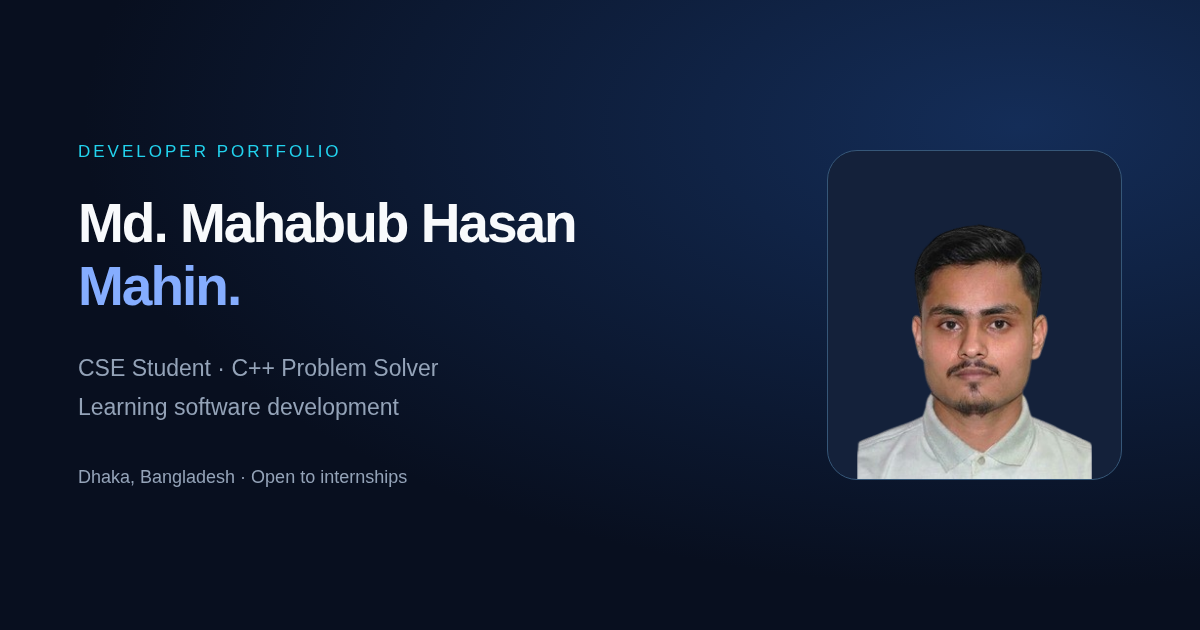
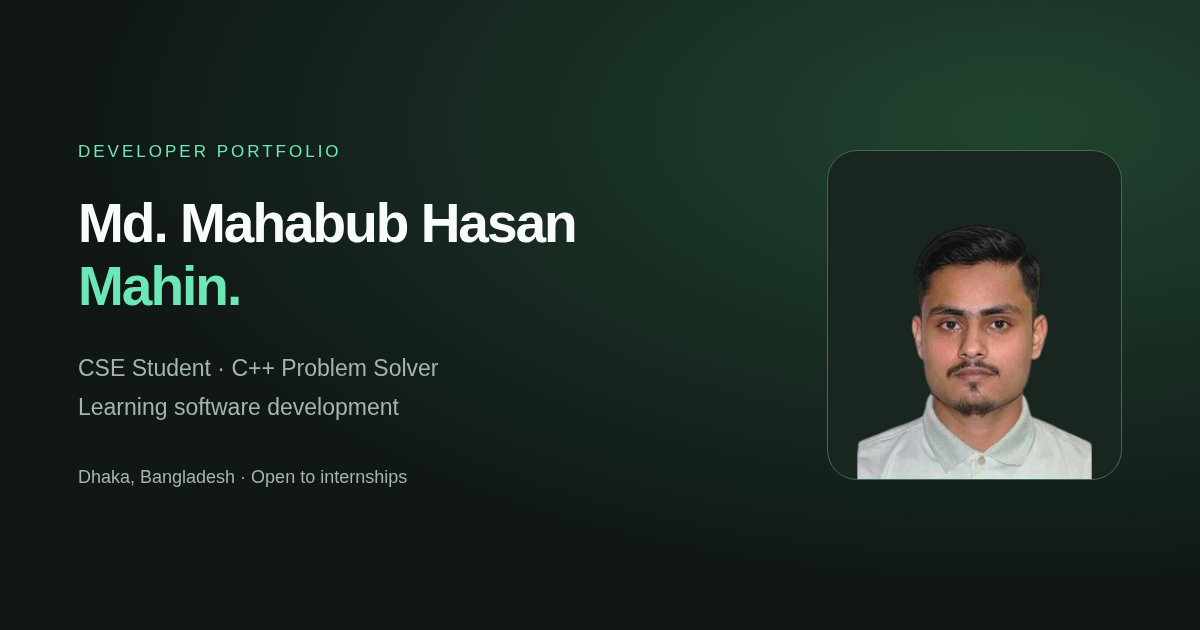
Show projects in one grid and switch to charcoal emerald palette

Changed region(s): [[0.4317, 0.0, 1.0, 0.7841], [0.0617, 0.4222, 0.2158, 0.4825], [0.0617, 0.2111, 0.2775, 0.2413]]

diff --git a/css/style.css b/css/style.css
@@ -1,16 +1,16 @@
-/* Mahin Portfolio — Midnight Glass. Edit these tokens to change the design. */
+/* Mahin Portfolio — Charcoal & Emerald Glass. Edit these tokens to change the design. */
 :root {
   color-scheme: dark;
-  --bg: #080f1f;
-  --panel: #14213a;
-  --surface: rgba(20,33,58,.82);
-  --surface-raised: #192b47;
-  --blue: #2563eb;
-  --cyan: #22d3ee;
+  --bg: #101715;
+  --panel: #19251f;
+  --surface: rgba(25,37,31,.82);
+  --surface-raised: #21332a;
+  --accent: #047857;
+  --cyan: #6ee7b7;
   --text: #f8fafc;
-  --muted: #94a3b8;
-  --line: #2d405b;
-  --hover-border: #5ba3ef;
+  --muted: #a3b5ac;
+  --line: #344b3e;
+  --hover-border: #5cbd91;
   --hover-shadow: rgba(0,0,0,.32);
   --shadow: 0 16px 45px rgba(0,0,0,.16);
   --radius: 18px;
@@ -19,18 +19,18 @@
 }
 html[data-theme=light] {
   color-scheme: light;
-  --bg: #edf3fa;
+  --bg: #f1f6f3;
   --panel: #fff;
   --surface: rgba(255,255,255,.9);
-  --surface-raised: #e5eef9;
-  --blue: #2459cd;
-  --cyan: #08748a;
-  --text: #10263f;
-  --muted: #49617a;
-  --line: #bacbe0;
-  --hover-border: #3279c5;
-  --hover-shadow: rgba(34,69,110,.15);
-  --shadow: 0 16px 45px rgba(34,69,110,.08);
+  --surface-raised: #e4eee7;
+  --accent: #047857;
+  --cyan: #096443;
+  --text: #193329;
+  --muted: #405c4b;
+  --line: #b5cebd;
+  --hover-border: #267b51;
+  --hover-shadow: rgba(39,85,57,.15);
+  --shadow: 0 16px 45px rgba(39,85,57,.08);
 }
 * { box-sizing: border-box; }
 html { scroll-behavior: smooth; scroll-padding-top: 30px; }
@@ -61,7 +61,7 @@ main:focus { outline: none; }
 .brand small { display: block; font-size: 8px; font-weight: 500; letter-spacing: 1.4px; color: var(--muted); white-space: nowrap; }
 .sidebar-avatar { display: grid; place-items: center; width: 43px; height: 46px; flex-shrink: 0; border: 0; border-radius: 0; overflow: hidden; background: transparent; }
 .sidebar-avatar img { width: 100%; height: 100%; object-fit: contain; object-position: center bottom; }
-.brand-mark { display: grid; place-items: center; width: 100%; height: 100%; background: var(--blue); color: white; font-size: 27px; }
+.brand-mark { display: grid; place-items: center; width: 100%; height: 100%; background: var(--accent); color: white; font-size: 27px; }
 .sidebar-controls { padding: 28px 8px 0; }
 .language-control { display: grid; gap: 8px; }
 .language-caption { color: var(--muted); font-size: 10px; letter-spacing: .6px; }
@@ -70,9 +70,9 @@ main:focus { outline: none; }
 .sidebar nav { position: relative; display: grid; gap: 4px; isolation: isolate; }
 .sidebar nav a { display: flex; align-items: center; gap: 12px; min-height: 43px; padding: 9px 13px; border-radius: 8px; color: var(--muted); font-size: 12px; line-height: 1.7; transition: color var(--motion),background var(--motion); }
 .sidebar nav a>span { display: inline-grid; place-items: center; width: 20px; font-size: 17px; flex-shrink: 0; }
-.sidebar nav a:hover { background: rgba(73,125,197,.12); color: var(--text); }
+.sidebar nav a:hover { background: rgba(69,141,96,.12); color: var(--text); }
 .sidebar nav a.active { color: var(--text); }
-.nav-indicator { position: absolute; z-index: -1; pointer-events: none; left: 0; top: 0; border-radius: 8px; border: 1px solid rgba(67,126,210,.24); border-left: 3px solid var(--cyan); background: linear-gradient(90deg,rgba(37,99,235,.2),rgba(37,99,235,.04)); transition: transform 280ms cubic-bezier(.2,.7,.2,1),width 280ms,height 280ms; }
+.nav-indicator { position: absolute; z-index: -1; pointer-events: none; left: 0; top: 0; border-radius: 8px; border: 1px solid rgba(73,143,101,.24); border-left: 3px solid var(--cyan); background: linear-gradient(90deg,rgba(16,185,129,.2),rgba(16,185,129,.04)); transition: transform 280ms cubic-bezier(.2,.7,.2,1),width 280ms,height 280ms; }
 .sidebar-bottom { margin-top: auto; padding: 30px 8px 0; font-size: 10px; line-height: 1.8; }
 .sidebar-bottom a { display: inline-block; color: var(--muted); margin: 10px 0; }
 .sidebar-bottom small { display: block; font-size: 9px; color: var(--muted); }
@@ -98,16 +98,16 @@ main { max-width: 1420px; margin-inline: auto; padding: 0 4.5%; min-width: 0; }
 .hero-copy { min-width: 0; }
 .hello { color: var(--muted); font-size: 18px; margin: 6px 0 12px; }
 h1 { margin: 0 0 20px; font-size: clamp(39px,4.2vw,65px); font-weight: 750; line-height: 1.1; letter-spacing: -2.2px; }
-h1>span { color: #8eb4ff; }
+h1>span { color: var(--cyan); }
 h1>span .cyan { color: var(--cyan); }
-.headline { font-size: 13px; line-height: 1.9; color: #c6d4e7; margin: 0 0 16px; }
-html[data-theme=light] .headline { color: #36516f; }
+.headline { font-size: 13px; line-height: 1.9; color: #ccddd3; margin: 0 0 16px; }
+html[data-theme=light] .headline { color: #365943; }
 .intro { max-width: 490px; font-size: 15px; line-height: 1.95; color: var(--muted); margin: 0 0 19px; }
 .current-focus { display: inline-flex; align-items: center; gap: 8px; max-width: 100%; margin: 0 0 25px; padding: 6px 11px; border: 1px solid var(--line); border-radius: 7px; background: var(--surface); color: var(--muted); font-size: 11px; }
 .current-focus:before { content: ''; width: 5px; height: 5px; background: var(--cyan); border-radius: 50%; flex-shrink: 0; }
 .hero-actions { display: flex; flex-wrap: wrap; gap: 11px; }
 .button { display: inline-flex; align-items: center; justify-content: center; gap: 18px; min-height: 46px; padding: 12px 18px; border: 1px solid var(--line); border-radius: 8px; font-size: 12px; font-weight: 600; }
-.primary { background: var(--blue); border-color: var(--blue); color: #fff; box-shadow: 0 5px 22px rgba(37,99,235,.2); }
+.primary { background: var(--accent); border-color: var(--accent); color: #fff; box-shadow: 0 5px 22px rgba(16,185,129,.2); }
 .secondary { background: var(--panel); color: var(--text); }
 .internship-link { display: inline-block; margin-top: 15px; font-size: 12px; color: var(--cyan); text-decoration: underline; text-underline-offset: 5px; }
 .hero-socials { display: flex; align-items: center; gap: 20px; margin-top: 22px; font-size: 11px; color: var(--muted); }
@@ -118,9 +118,9 @@ html[data-theme=light] .headline { color: #36516f; }
 .portrait-frame img { width: 100%; height: 100%; object-fit: contain; object-position: center bottom; padding: 0; mask-image: linear-gradient(to bottom,#000 88%,transparent 100%); }
 .portrait-frame img[data-image-shape=portrait] { object-fit: cover; object-position: 50% 25%; padding: 0; }
 #portrait-fallback { height: 100%; display: grid; align-content: center; justify-items: center; gap: 8px; }
-.monogram { font-size: 74px; font-weight: 750; line-height: 1.2; color: #bfd6ff; }
+.monogram { font-size: 74px; font-weight: 750; line-height: 1.2; color: #c0e9cf; }
 .portrait-note { color: var(--muted); font-size: 9px; letter-spacing: 1.5px; }
-.orbit { display: none; position: absolute; border: 1px solid rgba(77,138,204,.12); width: 338px; max-width: 96%; height: 338px; border-radius: 50%; pointer-events: none; }
+.orbit { display: none; position: absolute; border: 1px solid rgba(77,148,101,.12); width: 338px; max-width: 96%; height: 338px; border-radius: 50%; pointer-events: none; }
 .orbit-two { width: 370px; height: 290px; transform: rotate(-28deg); border-style: dashed; }
 .floating-label { position: absolute; z-index: 2; padding: 9px 12px; border: 1px solid var(--line); border-radius: 9px; background: var(--surface); color: var(--text); font-size: 10px; line-height: 1.7; box-shadow: 0 8px 24px rgba(0,0,0,.1); max-width: calc(100% - 24px); }
 .floating-label .cyan { margin-right: 6px; }
@@ -132,7 +132,7 @@ html[data-theme=light] .headline { color: #36516f; }
 .hero-footer a { font-size: 8px; letter-spacing: 1.4px; white-space: nowrap; }
 .quick-grid { display: grid; grid-template-columns: repeat(3,minmax(0,1fr)); gap: 15px; margin: 30px 0 48px; }
 .quick-card { display: flex; align-items: flex-start; gap: 12px; padding: 20px 16px; border: 1px solid var(--line); border-radius: 13px; background: var(--surface); min-width: 0; }
-.quick-icon { display: inline-grid; place-items: center; width: 35px; height: 38px; flex-shrink: 0; color: #9fbaff; background: rgba(37,99,235,.12); border-radius: 9px; font-size: 21px; }
+.quick-icon { display: inline-grid; place-items: center; width: 35px; height: 38px; flex-shrink: 0; color: #a5ddbc; background: rgba(16,185,129,.12); border-radius: 9px; font-size: 21px; }
 .quick-card small { display: block; color: var(--muted); font-size: 8px; letter-spacing: 1.2px; line-height: 1.6; }
 .quick-card strong { display: block; font-size: 12px; line-height: 1.6; margin: 6px 0; }
 .quick-card div>span { display: block; color: var(--muted); font-size: 10px; line-height: 1.7; }
@@ -147,25 +147,22 @@ html[data-theme=light] .headline { color: #36516f; }
 .interest-box { border-left: 1px solid var(--line); padding-left: 28px; }
 .interest-box small { color: var(--muted); font-size: 9px; letter-spacing: 1.3px; }
 .tags { display: flex; flex-wrap: wrap; gap: 7px; margin-top: 13px; }
-.tags span { padding: 4px 8px; border: 1px solid var(--line); border-radius: 5px; color: #bdcce1; background: rgba(37,99,235,.035); font-size: 11px; line-height: 1.7; overflow-wrap: anywhere; }
+.tags span { padding: 4px 8px; border: 1px solid var(--line); border-radius: 5px; color: #ccdfd1; background: rgba(16,185,129,.035); font-size: 11px; line-height: 1.7; overflow-wrap: anywhere; }
 html[data-theme=light] .tags span { color: var(--muted); }
 
 /* Projects, honest skill groups, and problem solving */
 #projects { padding-top: 20px; }
 .filter-row { display: flex; flex-wrap: wrap; gap: 8px; margin: 24px 0 17px; }
 .filter-row button { min-height: 42px; padding: 8px 15px; border-radius: 7px; color: var(--muted); font-size: 12px; }
-.filter-row button[aria-pressed=true] { background: var(--blue); border-color: var(--blue); color: #fff; }
+.filter-row button[aria-pressed=true] { background: var(--accent); border-color: var(--accent); color: #fff; }
 .project-grid { display: grid; grid-template-columns: repeat(3,minmax(0,1fr)); gap: 20px; min-width: 0; }
-.project-group-title { grid-column: 1/-1; padding: 12px 0; margin: 6px 0 0; border-bottom: 1px solid var(--line); font-size: 15px; font-weight: 600; }
 .project-card { display: flex; flex-direction: column; min-width: 0; border: 1px solid var(--line); border-radius: 15px; background: var(--surface); overflow: hidden; box-shadow: 0 8px 26px rgba(0,0,0,.08); }
-.project-art { position: relative; display: grid; place-items: center; height: 170px; background: radial-gradient(ellipse at bottom,rgba(37,99,235,.18),transparent 70%),var(--surface-raised); overflow: hidden; }
-.featured-card { border-color: #3a5c85; }
-.featured-card .project-art { height: 210px; }
+.project-art { position: relative; display: grid; place-items: center; height: 170px; background: radial-gradient(ellipse at bottom,rgba(16,185,129,.18),transparent 70%),var(--surface-raised); overflow: hidden; }
 .image-preview { display: block; width: 100%; height: 100%; padding: 0; border: 0; background: transparent; cursor: zoom-in; }
-.project-screenshot { width: 100%; height: 100%; object-fit: contain; object-position: center; background: #0d192d; transition: transform var(--motion); }
-.image-preview-hint { position: absolute; right: 10px; bottom: 10px; padding: 5px 9px; border: 1px solid #6494b8; border-radius: 5px; background: #10263fee; color: #fff; font-size: 10px; opacity: 0; transition: opacity var(--motion); }
+.project-screenshot { width: 100%; height: 100%; object-fit: contain; object-position: center; background: #111e17; transition: transform var(--motion); }
+.image-preview-hint { position: absolute; right: 10px; bottom: 10px; padding: 5px 9px; border: 1px solid #609276; border-radius: 5px; background: #193329ee; color: #fff; font-size: 10px; opacity: 0; transition: opacity var(--motion); }
 .image-preview:hover .image-preview-hint,.image-preview:focus-visible .image-preview-hint { opacity: 1; }
-.project-symbol { display: grid; place-items: center; width: 75px; height: 75px; border: 1px solid #476789; border-radius: 18px; color: #a9caff; background: rgba(66,115,181,.08); font-size: 42px; }
+.project-symbol { display: grid; place-items: center; width: 75px; height: 75px; border: 1px solid #426b51; border-radius: 18px; color: #b8e5c8; background: rgba(71,131,91,.08); font-size: 42px; }
 .art-caption { position: absolute; left: 12px; bottom: 10px; color: var(--muted); font-size: 8px; letter-spacing: 1.6px; }
 .project-body { display: flex; flex-direction: column; flex: 1; min-width: 0; padding: 21px; }
 .project-category { color: var(--cyan); font-size: 9px; text-transform: uppercase; letter-spacing: 1.3px; }
@@ -179,30 +176,30 @@ html[data-theme=light] .tags span { color: var(--muted); }
 .project-details dd { margin: 0; color: var(--muted); font-size: 12px; line-height: 1.85; }
 .project-actions { display: flex; flex-wrap: wrap; gap: 9px; margin-top: 18px; padding-top: 16px; border-top: 1px solid var(--line); }
 .project-link,.certificate-preview,.certificate-download,.preview-download,.cv-preview,.cv-open { position: relative; display: inline-flex; align-items: center; justify-content: center; min-height: 44px; padding: 8px 12px; border: 1px solid var(--line); border-radius: 7px; font-size: 11px; line-height: 1.7; font-weight: 550; background: var(--surface-raised); color: var(--text); }
-.demo-link,.certificate-preview,.cv-preview { color: #b9d7ff; background: rgba(37,99,235,.13); border-color: #3c5f8f; }
-html[data-theme=light] :is(.demo-link,.certificate-preview,.cv-preview) { color: #24529b; }
+.demo-link,.certificate-preview,.cv-preview { color: #c0e9cf; background: rgba(16,185,129,.13); border-color: #3c7353; }
+html[data-theme=light] :is(.demo-link,.certificate-preview,.cv-preview) { color: #276b47; }
 .source-note { margin: 17px 0 38px; font-size: 11px; color: var(--muted); }
 .skills-grid { display: grid; grid-template-columns: repeat(3,minmax(0,1fr)); gap: 16px; }
-.skill-card { min-width: 0; padding: 20px; border: 1px solid var(--line); border-radius: 12px; background: rgba(30,60,102,.035); }
+.skill-card { min-width: 0; padding: 20px; border: 1px solid var(--line); border-radius: 12px; background: rgba(30,75,49,.035); }
 .skill-card h3 { margin: 0 0 14px; font-size: 14px; }
 .skill-card .tags { margin-top: 0; }
 .practice-panel { display: grid; grid-template-columns: minmax(0,1fr) minmax(0,1fr); gap: 50px; align-items: center; padding: 35px 12px; }
 .practice-panel p:not(.eyebrow) { color: var(--muted); font-size: 14px; line-height: 1.9; max-width: 400px; }
 .practice-panel .button { margin-top: 12px; }
-.code-window { border: 1px solid var(--line); background: #0b1425; color: #e2edfc; border-radius: 12px; overflow: hidden; box-shadow: var(--shadow); min-width: 0; }
-.code-top { display: flex; align-items: center; gap: 5px; padding: 13px; border-bottom: 1px solid #2b3e59; }
+.code-window { border: 1px solid var(--line); background: #0e1913; color: #e6f2e9; border-radius: 12px; overflow: hidden; box-shadow: var(--shadow); min-width: 0; }
+.code-top { display: flex; align-items: center; gap: 5px; padding: 13px; border-bottom: 1px solid #2a4233; }
 .code-top i { width: 6px; height: 6px; border-radius: 50%; background: #ee9091; }
 .code-top i:nth-child(2) { background: #dac078; }.code-top i:nth-child(3) { background: #70c7a3; }
-.code-top span { margin: auto; font-size: 10px; color: #a6b7cd; }
+.code-top span { margin: auto; font-size: 10px; color: #afc5b7; }
 .code-window pre { margin: 0; padding: 22px; font: 13px/2 ui-monospace,SFMono-Regular,Consolas,monospace; overflow-x: auto; }
-.code-window .cyan { color: #45d9f1; }.code-window .muted { color: #a6b7cd; }
-.code-bottom { display: flex; justify-content: space-between; gap: 12px; padding: 10px 15px; border-top: 1px solid #2b3e59; color: #a6b7cd; font-size: 10px; }
+.code-window .cyan { color: #6ee7b7; }.code-window .muted { color: #afc5b7; }
+.code-bottom { display: flex; justify-content: space-between; gap: 12px; padding: 10px 15px; border-top: 1px solid #2a4233; color: #afc5b7; font-size: 10px; }
 .code-bottom span { color: #77d4b2; }
 
 /* Education, certificates, CV, contact */
 .timeline { display: grid; grid-template-columns: repeat(2,minmax(0,1fr)); gap: 30px; margin-top: 28px; }
 .timeline article { position: relative; border-left: 1px solid var(--line); padding-left: 20px; min-width: 0; }
-.timeline article:before { content: ''; position: absolute; top: 8px; left: -4px; width: 7px; height: 7px; border-radius: 50%; background: var(--cyan); box-shadow: 0 0 0 4px rgba(34,211,238,.06); }
+.timeline article:before { content: ''; position: absolute; top: 8px; left: -4px; width: 7px; height: 7px; border-radius: 50%; background: var(--cyan); box-shadow: 0 0 0 4px rgba(110,231,183,.06); }
 .timeline small { color: var(--cyan); font-size: 11px; }
 .timeline h3 { font-size: 16px; margin: 7px 0; }.timeline p { margin: 0; color: var(--muted); font-size: 13px; }
 .certificate-list { display: grid; grid-template-columns: repeat(3,minmax(0,1fr)); grid-auto-rows: 1fr; gap: 20px; margin-top: 25px; }
@@ -218,16 +215,16 @@ html[data-theme=light] :is(.demo-link,.certificate-preview,.cv-preview) { color:
 .certificate-actions>* { flex: 1 1 105px; }
 .certificate-status { padding-top: 12px; }
 .resume-grid { display: grid; gap: 14px; }
-.resume-card { display: flex; align-items: center; justify-content: space-between; gap: 20px; padding: 23px; border: 1px solid var(--line); border-radius: 12px; background: rgba(30,60,102,.035); }
+.resume-card { display: flex; align-items: center; justify-content: space-between; gap: 20px; padding: 23px; border: 1px solid var(--line); border-radius: 12px; background: rgba(30,75,49,.035); }
 .resume-card h3 { font-size: 17px; margin: 0 0 5px; }.resume-card p { margin: 0; color: var(--muted); font-size: 12px; }
 .resume-actions { display: flex; flex-wrap: wrap; gap: 9px; }
 .resume-card a[download] { display: inline-flex; align-items: center; justify-content: center; padding: 9px 13px; min-height: 44px; border: 1px solid var(--line); border-radius: 7px; color: var(--text); font-size: 12px; }
 .asset-status { font-size: 11px; color: var(--muted); }
-.contact-panel { padding: 48px 24px 40px; text-align: center; border: 1px solid var(--line); border-radius: var(--radius); background: radial-gradient(ellipse at bottom,rgba(37,99,235,.12),transparent 70%),var(--surface); }
+.contact-panel { padding: 48px 24px 40px; text-align: center; border: 1px solid var(--line); border-radius: var(--radius); background: radial-gradient(ellipse at bottom,rgba(16,185,129,.12),transparent 70%),var(--surface); }
 .contact-panel h2 { font-size: clamp(29px,3.2vw,43px); }
 .contact-panel>p:not(.eyebrow) { max-width: 500px; margin: 18px auto; font-size: 14px; line-height: 1.9; color: var(--muted); }
-.email-link { display: inline-block; color: #a7ccff; font-size: clamp(13px,1.7vw,22px); margin: 9px 0 24px; overflow-wrap: anywhere; }
-html[data-theme=light] .email-link { color: #24529b; }
+.email-link { display: inline-block; color: #b7e5c9; font-size: clamp(13px,1.7vw,22px); margin: 9px 0 24px; overflow-wrap: anywhere; }
+html[data-theme=light] .email-link { color: #276b47; }
 .contact-socials { display: flex; justify-content: center; flex-wrap: wrap; gap: 10px; }
 .contact-socials a { min-height: 42px; padding: 8px 12px; border: 1px solid var(--line); border-radius: 7px; color: var(--muted); font-size: 11px; }
 .contact-location,.contact-hometown { font-size: 11px; color: var(--muted); margin-top: 20px; }.contact-hometown { margin-top: 5px; }
@@ -235,8 +232,8 @@ footer { display: flex; justify-content: space-between; align-items: center; gap
 footer a { display: inline-grid; place-items: center; width: 34px; height: 34px; border: 1px solid var(--line); border-radius: 7px; margin-left: 9px; }
 
 /* Native accessible previews */
-.image-dialog,.cv-dialog { padding: 20px; border: 1px solid #547496; border-radius: 16px; background: var(--panel); color: var(--text); max-width: min(1100px,94vw); width: max-content; max-height: 92dvh; overflow: auto; box-shadow: 0 25px 80px rgba(0,0,0,.4); }
-.image-dialog::backdrop,.cv-dialog::backdrop { background: rgba(3,8,17,.86); }
+.image-dialog,.cv-dialog { padding: 20px; border: 1px solid #527c61; border-radius: 16px; background: var(--panel); color: var(--text); max-width: min(1100px,94vw); width: max-content; max-height: 92dvh; overflow: auto; box-shadow: 0 25px 80px rgba(0,0,0,.4); }
+.image-dialog::backdrop,.cv-dialog::backdrop { background: rgba(3,12,7,.86); }
 .preview-header { display: flex; align-items: center; justify-content: space-between; gap: 20px; margin-bottom: 14px; }
 .preview-header h2 { margin: 0; font-size: 17px; letter-spacing: 0; line-height: 1.6; }
 .preview-close,.cv-close { width: 44px; height: 44px; flex-shrink: 0; border-radius: 8px; font-size: 25px; }
@@ -288,7 +285,7 @@ body.preview-open { overflow: hidden; }
   .quick-card strong { font-size: 13px; }.quick-card div>span { font-size: 11px; }
   .about-grid { grid-template-columns: 1fr; gap: 22px; }.interest-box { border: 0; padding: 0; }
   .project-grid,.skills-grid,.certificate-list { grid-template-columns: minmax(0,1fr); }.certificate-list { grid-auto-rows: auto; }
-  .project-art { height: 190px; }.featured-card .project-art { height: 215px; }
+  .project-art { height: 190px; }
   .skills-grid { gap: 12px; }.skill-card h3 { font-size: 15px; }
   .practice-panel { grid-template-columns: 1fr; gap: 25px; padding: 20px 0; }
   .timeline { grid-template-columns: 1fr; gap: 27px; }

diff --git a/index.html b/index.html
@@ -5,7 +5,7 @@
 <meta name="description" content="Md. Mahabub Hasan Mahin is a CSE student at Green University of Bangladesh. Based in Dhaka, from Rangpur. View C++, web and backend projects, skills, and CV.">
 <link rel="canonical" href="https://mahabubhasanmahin.github.io/portfolio/">
 <meta name="robots" content="index, follow">
-<meta name="theme-color" content="#080f1f">
+<meta name="theme-color" content="#101715">
 <meta property="og:title" content="Md. Mahabub Hasan Mahin | Developer Portfolio">
 <meta property="og:description" content="CSE student, C++ problem solver, and software development learner. Based in Dhaka, from Rangpur, Bangladesh.">
 <meta property="og:type" content="profile">
@@ -52,16 +52,16 @@
   }
 }</script>
 <link rel="icon" href="assets/favicon.svg" type="image/svg+xml">
-<link rel="stylesheet" href="css/style.css?v=20261109-portrait-blend"><link rel="stylesheet" href="css/effects.css?v=20261109-portrait-blend">
-<script type="module" src="js/main.js?v=20261109-portrait-blend"></script>
+<link rel="stylesheet" href="css/style.css?v=20261109-emerald-grid"><link rel="stylesheet" href="css/effects.css?v=20261109-emerald-grid">
+<script type="module" src="js/main.js?v=20261109-emerald-grid"></script>
 </head>
 <body>
 <a class="skip" href="#main">Skip to content</a>
-<aside class="sidebar"><a class="brand" href="#home"><span class="sidebar-avatar"><img id="sidebar-profile" src="assets/images/profile.png?v=20261109-portrait-blend" alt="" width="96" height="96"><span id="sidebar-profile-fallback" class="brand-mark" hidden>m<span>.</span></span></span><span>mahin<span class="cyan">.</span><small>DEVELOPER PORTFOLIO</small></span></a>
+<aside class="sidebar"><a class="brand" href="#home"><span class="sidebar-avatar"><img id="sidebar-profile" src="assets/images/profile.png?v=20261109-emerald-grid" alt="" width="96" height="96"><span id="sidebar-profile-fallback" class="brand-mark" hidden>m<span>.</span></span></span><span>mahin<span class="cyan">.</span><small>DEVELOPER PORTFOLIO</small></span></a>
 <button id="menu-toggle" class="menu-toggle" type="button" aria-label="Open menu" aria-expanded="false" aria-controls="site-nav"><span aria-hidden="true">☰</span></button><div class="sidebar-controls"><label class="language-control"><span class="language-caption">Language / ভাষা / 言語</span><select id="language-select" aria-label="Language / ভাষা / 言語"><option value="en">English</option><option value="bn">বাংলা</option><option value="ja">日本語</option></select></label></div><div class="nav-caption">MENU</div><nav id="site-nav" aria-label="Main navigation"><a href="#home" class="active"><span>⌂</span> Home</a><a href="#about"><span>◉</span> About me</a><a href="#skills"><span>⌘</span> Skills</a><a href="#projects"><span>▦</span> Projects</a><a href="#practice"><span>⌨</span> Problem solving</a><a href="#education"><span>▤</span> Education</a><a href="#certifications"><span>◇</span> Certificates</a><a href="#resume"><span>↓</span> CV</a><a href="#contact"><span>✉</span> Contact</a></nav>
 <div class="sidebar-bottom"><div class="learning-dot">Always learning. Always building.</div><a id="sidebar-github" target="_blank" rel="noopener noreferrer">Explore my GitHub ↗</a><small>Made with HTML, CSS, and JavaScript.</small></div></aside>
 <div class="workspace"><header class="topbar"><span class="breadcrumb">Portfolio <span>/</span> <strong>Home</strong></span><div class="top-actions"><span class="local-time">Dhaka, BD <span> · UTC+6</span></span><button id="theme-toggle" aria-label="Switch to light theme" title="Switch theme">☼</button><a href="#contact" class="top-contact">Contact me ↗</a></div></header>
-<main id="main" tabindex="-1"><section id="home" class="hero section"><div class="eyebrow"><span></span> LEARNING AND BUILDING</div><div class="hero-grid"><div class="hero-copy"><p class="hello">Hi, I’m</p><h1 id="hero-name">Md. Mahabub Hasan<br><span>Mahin<span class="cyan">.</span></span></h1><p class="headline" id="headline">CSE Student | C++ Problem Solver | Learning Software Development</p><p class="intro" id="intro">I study computer science, practice problem solving with C++, and learn backend development through projects. I am looking for a software development internship where I can learn and help a team.</p><p id="current-focus" class="current-focus">Currently working on a research paper.</p><div class="hero-actions"><a class="button primary" href="#projects">View projects <span>↗</span></a><a class="button secondary" href="#resume">↓ Download CV</a></div><a class="internship-link" href="#contact">Looking for an intern? Let’s talk ↗</a><div class="hero-socials" id="hero-socials"></div></div><div class="portrait-scene"><div class="orbit orbit-one"></div><div class="orbit orbit-two"></div><div class="portrait-frame"><img id="profile" src="assets/images/profile.png?v=20261109-portrait-blend" alt="Portrait of Md. Mahabub Hasan Mahin" width="300" height="300" fetchpriority="high" decoding="async"><div id="portrait-fallback" hidden><span class="monogram">MH<span>.</span></span><span class="portrait-note">DEVELOPER IN PROGRESS</span></div></div><div class="floating-label code-label"><span class="cyan" aria-hidden="true">&lt;/&gt;</span> Learning by building</div><div class="floating-label location-label"><span class="cyan" aria-hidden="true">⌖</span> Bangladesh</div><div class="scene-caption"><span class="status-dot"></span> Open to internships and junior roles</div></div></div><div class="hero-footer"><span><span class="cyan">01 /</span> Learning something new every day.</span><a href="#about">SEE MORE ↓</a></div></section>
+<main id="main" tabindex="-1"><section id="home" class="hero section"><div class="eyebrow"><span></span> LEARNING AND BUILDING</div><div class="hero-grid"><div class="hero-copy"><p class="hello">Hi, I’m</p><h1 id="hero-name">Md. Mahabub Hasan<br><span>Mahin<span class="cyan">.</span></span></h1><p class="headline" id="headline">CSE Student | C++ Problem Solver | Learning Software Development</p><p class="intro" id="intro">I study computer science, practice problem solving with C++, and learn backend development through projects. I am looking for a software development internship where I can learn and help a team.</p><p id="current-focus" class="current-focus">Currently working on a research paper.</p><div class="hero-actions"><a class="button primary" href="#projects">View projects <span>↗</span></a><a class="button secondary" href="#resume">↓ Download CV</a></div><a class="internship-link" href="#contact">Looking for an intern? Let’s talk ↗</a><div class="hero-socials" id="hero-socials"></div></div><div class="portrait-scene"><div class="orbit orbit-one"></div><div class="orbit orbit-two"></div><div class="portrait-frame"><img id="profile" src="assets/images/profile.png?v=20261109-emerald-grid" alt="Portrait of Md. Mahabub Hasan Mahin" width="300" height="300" fetchpriority="high" decoding="async"><div id="portrait-fallback" hidden><span class="monogram">MH<span>.</span></span><span class="portrait-note">DEVELOPER IN PROGRESS</span></div></div><div class="floating-label code-label"><span class="cyan" aria-hidden="true">&lt;/&gt;</span> Learning by building</div><div class="floating-label location-label"><span class="cyan" aria-hidden="true">⌖</span> Bangladesh</div><div class="scene-caption"><span class="status-dot"></span> Open to internships and junior roles</div></div></div><div class="hero-footer"><span><span class="cyan">01 /</span> Learning something new every day.</span><a href="#about">SEE MORE ↓</a></div></section>
 <div class="quick-grid"><a href="#education" class="quick-card"><span class="quick-icon" aria-hidden="true">▤</span><div><small>CURRENTLY STUDYING</small><strong>Computer Science & Engineering</strong><span>Green University of Bangladesh</span></div><span class="arrow" aria-hidden="true">↗</span></a><a href="#practice" class="quick-card"><span class="quick-icon" aria-hidden="true">⌘</span><div><small>MAIN FOCUS</small><strong>C++ & Problem Solving</strong><span>Practice, learn, and try again.</span></div><span class="arrow" aria-hidden="true">↗</span></a><a href="#projects" class="quick-card"><span class="quick-icon" aria-hidden="true">▦</span><div><small>HOW I LEARN</small><strong>Building projects</strong><span>Turn ideas into simple apps.</span></div><span class="arrow" aria-hidden="true">↗</span></a></div>
 <section id="about" class="section panel"><div class="section-heading"><div><p class="eyebrow">01 — ABOUT ME</p><h2>About me. <span>What I am learning.</span></h2></div><span class="section-label">ABOUT ME</span></div><div class="about-grid"><p id="about-copy"></p><div class="interest-box"><small>MY INTERESTS</small><div class="tags"><span>Backend development</span><span>Software development</span><span>C++ problem solving</span><span>IT & networking</span></div></div></div></section>
 <section id="projects" class="section"><div class="section-heading"><div><p class="eyebrow">02 — MY PROJECTS</p><h2>My projects. <span>Built while learning.</span></h2><p class="section-description">Class and personal projects that help me learn.</p></div></div><div class="filter-row" role="group" aria-label="Filter projects" id="filters"></div><p class="sr-only" id="project-status" aria-live="polite"></p><div id="project-grid" class="project-grid"></div><p class="source-note">See the code on GitHub. Some projects also have a live demo.</p></section>

diff --git a/css/effects.css b/css/effects.css
@@ -1,12 +1,12 @@
 /* Lightweight enhancement layer. Content is readable without these effects. */
 .ambient-scene { position: fixed; inset: 0; z-index: -1; pointer-events: none; overflow: hidden; contain: strict; --scene-x: 0px; --scene-y: 0px; }
-.ambient-grid { position: absolute; inset: 0; opacity: .22; background-image: linear-gradient(#5d85ad14 1px,transparent 1px),linear-gradient(90deg,#5d85ad14 1px,transparent 1px); background-size: 65px 65px; mask-image: radial-gradient(ellipse at 70% 35%,#000,transparent 75%); }
+.ambient-grid { position: absolute; inset: 0; opacity: .22; background-image: linear-gradient(#6a9a7e14 1px,transparent 1px),linear-gradient(90deg,#6a9a7e14 1px,transparent 1px); background-size: 65px 65px; mask-image: radial-gradient(ellipse at 70% 35%,#000,transparent 75%); }
 .ambient-orb { position: absolute; border-radius: 50%; width: 650px; height: 650px; transform: translate3d(var(--scene-x),calc(var(--scene-y) + var(--scroll-offset,0px)),0); }
-.orb-blue { top: -270px; right: -150px; background: radial-gradient(circle,#2563eb19,transparent 67%); }.orb-cyan { bottom: -420px; left: 5%; background: radial-gradient(circle,#22d3ee0a,transparent 65%); }
-.geometry { position: absolute; border: 1px solid #6aa3dc14; transform: translate3d(var(--scene-x),var(--scene-y),0) rotate(25deg); }
+.orb-blue { top: -270px; right: -150px; background: radial-gradient(circle,#10b98119,transparent 67%); }.orb-cyan { bottom: -420px; left: 5%; background: radial-gradient(circle,#6ee7b70a,transparent 65%); }
+.geometry { position: absolute; border: 1px solid #75b38d14; transform: translate3d(var(--scene-x),var(--scene-y),0) rotate(25deg); }
 .geometry-cube { top: 21%; right: 4%; width: 125px; height: 125px; border-radius: 16px; }.geometry-ring { right: 17%; bottom: 13%; width: 175px; height: 175px; border-radius: 50%; }.geometry-diamond { display: none; }
 :is(.project-card,.skill-card,.quick-card,.resume-card,.certificate-card) { position: relative; isolation: isolate; transition: transform var(--motion),border-color var(--motion),box-shadow var(--motion),background var(--motion); }
-:is(.project-card,.skill-card,.quick-card,.resume-card,.certificate-card):after { content: ''; position: absolute; z-index: -1; inset: 0; border-radius: inherit; opacity: 0; pointer-events: none; background: radial-gradient(300px circle at var(--pointer-x,50%) var(--pointer-y,50%),#3f9eff14,transparent 70%); transition: opacity var(--motion); }
+:is(.project-card,.skill-card,.quick-card,.resume-card,.certificate-card):after { content: ''; position: absolute; z-index: -1; inset: 0; border-radius: inherit; opacity: 0; pointer-events: none; background: radial-gradient(300px circle at var(--pointer-x,50%) var(--pointer-y,50%),#38d99714,transparent 70%); transition: opacity var(--motion); }
 html[data-pointer-effects=true] .pointer-lit:after { opacity: 1; }
 :is(.button,.project-link,.certificate-preview,.certificate-download,.preview-download,.cv-preview,.cv-open,.top-contact,.filter-row button,#theme-toggle,.menu-toggle) { position: relative; isolation: isolate; overflow: hidden; transition: transform var(--motion),border-color var(--motion),box-shadow var(--motion),background var(--motion); }
 .button:before { content: ''; position: absolute; top: -50%; left: -80%; width: 40%; height: 200%; pointer-events: none; transform: skewX(-20deg); background: linear-gradient(90deg,transparent,#ffffff24,transparent); }
@@ -14,13 +14,13 @@ html[data-pointer-effects=true] .pointer-lit:after { opacity: 1; }
  :is(.project-card,.skill-card,.quick-card,.resume-card,.certificate-card):hover { border-color: var(--hover-border); box-shadow: 0 15px 32px var(--hover-shadow); transform: translateY(-5px); }
  html[data-pointer-effects=true] .project-card.pointer-lit { border-color: var(--hover-border); box-shadow: 0 15px 32px var(--hover-shadow); transform: perspective(1000px) translateY(-5px) rotateX(var(--tilt-x,0deg)) rotateY(var(--tilt-y,0deg)); }
  :is(.button,.project-link,.certificate-preview,.certificate-download,.top-contact,.filter-row button,#theme-toggle,.menu-toggle,.cv-preview,.cv-open):hover { border-color: var(--hover-border); box-shadow: 0 6px 20px var(--hover-shadow); transform: translateY(-2px); }
- .primary:hover { background: #3472f3; color: #fff; }.secondary:hover { background: var(--surface-raised); }
+ .primary:hover { background: #065f46; color: #fff; }.secondary:hover { background: var(--surface-raised); }
  html[data-button-effects=true] .button:hover:before { animation: sheen .6s ease both; }
  .project-card:hover .project-screenshot { transform: scale(1.035); }
 }
-:is(.project-card,.certificate-card,.resume-card):focus-within { border-color: var(--cyan); box-shadow: 0 0 0 2px rgba(34,211,238,.12); }
+:is(.project-card,.certificate-card,.resume-card):focus-within { border-color: var(--cyan); box-shadow: 0 0 0 2px rgba(110,231,183,.12); }
 :is(.button,.project-link,.certificate-preview,.certificate-download):active { transform: translateY(1px); }
-.button-ripple { position: absolute; width: 12px; height: 12px; border-radius: 50%; pointer-events: none; background: #a9e6ff70; transform: translate(-50%,-50%) scale(0); animation: ripple .5s ease-out forwards; z-index: -1; }
+.button-ripple { position: absolute; width: 12px; height: 12px; border-radius: 50%; pointer-events: none; background: #b8f3d470; transform: translate(-50%,-50%) scale(0); animation: ripple .5s ease-out forwards; z-index: -1; }
 @keyframes sheen { to { left: 150%; } }@keyframes ripple { to { transform: translate(-50%,-50%) scale(35); opacity: 0; } }
 .section-arrived { animation: section-reveal .65s ease both; }.section-arrived .project-card { animation: card-reveal .5s ease both; animation-delay: var(--stagger,0ms); }
 @keyframes section-reveal { from { opacity: .75; } to { opacity: 1; } }@keyframes card-reveal { from { opacity: .72; } to { opacity: 1; } }

diff --git a/js/main.js b/js/main.js
@@ -1,11 +1,11 @@
-import {initCVPreview} from './cv.js?v=20261109-portrait-blend';
-import {initProfile} from './profile.js?v=20261109-portrait-blend';
-import {initNavigation} from './navigation.js?v=20261109-portrait-blend';
-import {renderCertificates} from './certificates.js?v=20261109-portrait-blend';
-import {initImagePreview} from './preview.js?v=20261109-portrait-blend';
-import {initEffects} from './effects.js?v=20261109-portrait-blend';
-import {initLanguage,translate,translatePage} from './i18n.js?v=20261109-portrait-blend';
-import {portfolio as data} from './portfolio-data.js?v=20261109-portrait-blend';
+import {initCVPreview} from './cv.js?v=20261109-emerald-grid';
+import {initProfile} from './profile.js?v=20261109-emerald-grid';
+import {initNavigation} from './navigation.js?v=20261109-emerald-grid';
+import {renderCertificates} from './certificates.js?v=20261109-emerald-grid';
+import {initImagePreview} from './preview.js?v=20261109-emerald-grid';
+import {initEffects} from './effects.js?v=20261109-emerald-grid';
+import {initLanguage,translate,translatePage} from './i18n.js?v=20261109-emerald-grid';
+import {portfolio as data} from './portfolio-data.js?v=20261109-emerald-grid';
 initProfile(data.photo);
 const $ = selector => document.querySelector(selector);
 const element = (tag, className, text) => {const node=document.createElement(tag);if(className)node.className=className;if(text!==undefined)node.textContent=text;return node;};
@@ -19,12 +19,10 @@ for(const [title,...skills] of data.skills){const card=element('article','skill-
 for(const [date,title,org] of data.education){const article=element('article');article.append(element('small','',date),element('h3','',title),element('p','',org));$('#education-list').append(article);}
 renderCertificates(data.certifications,$('#certification-list'));
 function renderProjects(category='All projects') {
- const projects=data.projects.filter(project=>category==='All projects'||project.category===category).sort((a,b)=>Number(Boolean(b.featured))-Number(Boolean(a.featured)));
- let normalHeading=false;
+ const projects=data.projects.filter(project=>category==='All projects'||project.category===category);
  $('#project-grid').replaceChildren();
  for(const project of projects){
-  if(category==='All projects'){if(project===projects[0])$('#project-grid').append(element('p','project-group-title','Featured projects'));if(!project.featured&&!normalHeading){$('#project-grid').append(element('p','project-group-title','More projects'));normalHeading=true;}}
-  const card=element('article','project-card'+(project.featured?' featured-card':''));card.style.setProperty('--stagger',Math.min(projects.indexOf(project),5)*35+'ms');
+  const card=element('article','project-card');card.style.setProperty('--stagger',Math.min(projects.indexOf(project),5)*35+'ms');
   const art=element('div','project-art');
   if(project.image){
    const image=element('img','project-screenshot');image.src=project.image;image.alt=project.name+' — Project screenshot';image.loading='lazy';image.width=900;image.height=440;
@@ -49,7 +47,7 @@ for(const cv of data.resumes){
  if(cv.path){const actions=element('div','resume-actions');const download=card.querySelector('a[download]');const preview=element('button','cv-preview','View CV');preview.type='button';preview.dataset.cvSrc=cv.path;preview.setAttribute('aria-haspopup','dialog');actions.append(preview,download);card.append(actions);}
  $('#resume-list').append(card);
 }
-const themeButton=$('#theme-toggle');function setTheme(theme){document.documentElement.dataset.theme=theme;document.querySelector('meta[name="theme-color"]').content=theme==='dark'?'#080f1f':'#edf3fa';themeButton.textContent=theme==='dark'?'☼':'☾';themeButton.setAttribute('aria-label',translate('Switch to '+(theme==='dark'?'light':'dark')+' theme'));}try{setTheme(localStorage.getItem('mahin-theme-midnight')==='light'?'light':'dark');}catch{setTheme('dark');}themeButton.addEventListener('click',()=>{const theme=document.documentElement.dataset.theme==='dark'?'light':'dark';setTheme(theme);try{localStorage.setItem('mahin-theme-midnight',theme);}catch{}});
+const themeButton=$('#theme-toggle');function setTheme(theme){document.documentElement.dataset.theme=theme;document.querySelector('meta[name="theme-color"]').content=theme==='dark'?'#101715':'#f1f6f3';themeButton.textContent=theme==='dark'?'☼':'☾';themeButton.setAttribute('aria-label',translate('Switch to '+(theme==='dark'?'light':'dark')+' theme'));}try{setTheme(localStorage.getItem('mahin-theme-midnight')==='light'?'light':'dark');}catch{setTheme('dark');}themeButton.addEventListener('click',()=>{const theme=document.documentElement.dataset.theme==='dark'?'light':'dark';setTheme(theme);try{localStorage.setItem('mahin-theme-midnight',theme);}catch{}});
 const reduced=matchMedia('(prefers-reduced-motion: reduce)');
 if(!['reveal','tilt','spotlight','buttons','background'].some(key=>data.effects[key]))document.documentElement.dataset.effects='off';
 const observer=new IntersectionObserver(entries=>{for(const entry of entries)if(entry.isIntersecting){if(data.effects.reveal&&!reduced.matches)entry.target.classList.add('section-arrived');observer.unobserve(entry.target);}},{threshold:.08});document.querySelectorAll('main>.section,.journey-grid .section').forEach(x=>observer.observe(x));

diff --git a/js/preview.js b/js/preview.js
@@ -1,4 +1,4 @@
-import {translate} from './i18n.js?v=20261109-portrait-blend';
+import {translate} from './i18n.js?v=20261109-emerald-grid';
 /** Native dialog supplies focus containment, Escape, and focus restoration. */
 export function initImagePreview(){
  const dialog=document.createElement('dialog');dialog.className='image-dialog';dialog.setAttribute('aria-labelledby','preview-title');

diff --git a/js/cv.js b/js/cv.js
@@ -1,4 +1,4 @@
-import {translate} from './i18n.js?v=20261109-portrait-blend';
+import {translate} from './i18n.js?v=20261109-emerald-grid';
 
 /** A real PDF preview with a normal open/download fallback for mobile browsers. */
 export function initCVPreview(){

diff --git a/js/navigation.js b/js/navigation.js
@@ -1,4 +1,4 @@
-import {translate} from './i18n.js?v=20261109-portrait-blend';
+import {translate} from './i18n.js?v=20261109-emerald-grid';
 
 /** One active-section controller for pointer, keyboard, scroll, and history. */
 export function initNavigation(){

diff --git a/README.md b/README.md
@@ -8,10 +8,10 @@ Built with HTML, CSS, and JavaScript. No build step, framework, or backend is ne
 
 ## Included
 
-- Eleven class and personal projects, with three featured projects.
+- Eleven class and personal projects, shown together in one grid.
 - Project screenshots, source links, four supplied demo links, and editable project notes.
 - Skills, education, three certificates, CV preview and download, and contact links.
-- Midnight Glass design, light theme, and English, Bengali, and Japanese.
+- Charcoal and Emerald Glass design, light theme, and English, Bengali, and Japanese.
 - Mobile menu, keyboard navigation, image previews, and optional motion effects.
 
 ## Run locally
@@ -40,7 +40,7 @@ Open `http://localhost:8000`. VS Code Live Server also works. Use a server rathe
 
 **Photo:** replace `assets/images/profile.png` with a real PNG. The hero and menu share it. Square headshots show the whole image; tall photos use cover fitting. Keep the face inside the photo. The transparent portrait has no colored box, border, or glow. The page background shows through in either theme; the shirt edge fades softly into it. To use another filename, change `photo` in the data file and both initial image sources in `index.html`. Renaming a JPG extension does not convert it to PNG.
 
-**Projects:** add an object to `projects`. Use `featured: true` for the first group, and `demo: null` when there is no live site. Upload a screenshot and put its relative path in `image`. Each project has editable `description`, `work`, `learning`, `stack`, and `repo`. The current work notes describe features; they do not establish individual or team roles. Replace them with your specific contribution when confirmed.
+**Projects:** add an object to `projects`. All cards appear together in the order listed. Use `demo: null` when there is no live site. Upload a screenshot and put its relative path in `image`. Each project has editable `description`, `work`, `learning`, `stack`, and `repo`. The current work notes describe features; they do not establish individual or team roles. Replace them with your specific contribution when confirmed.
 
 **Skills and research:** edit the skill groups honestly. Keep basic and project-based labels where appropriate. `currentFocus` records work on a research paper; no publication or result is claimed.
 

diff --git a/AUDIT.md b/AUDIT.md
@@ -1,4 +1,16 @@
-# Portfolio audit — Midnight Glass
+# Portfolio audit and follow-up changes
+
+## Follow-up — 9 November 2026 (Dhaka)
+
+The owner requested one project grid and an alternative to blue. All eleven projects now appear together, in their existing data order, with equal screenshot heights. The Featured/More headings and larger featured-card treatment were removed from rendering; original project metadata and links remain intact.
+
+The current theme uses charcoal (`#101715`), emerald (`#047857`), and mint (`#6EE7B7`) with a matching light mode. The profile remains transparent, with no colored frame, border, or glow, and blends into either theme. Existing smooth transitions, pointer tilt, hover, and reduced-motion support remain. Favicon and social-card artwork match the new palette.
+
+Six affected browser suites passed: projects, home, themes, hero layout, hover feedback, and navigation/CV integration. Rechecked automated accessibility in both themes after increasing the light-mode text contrast. The Lighthouse scores below belong to the earlier Midnight Glass audit; Lighthouse was not rerun for this color/layout follow-up.
+
+---
+
+The following records the initial Midnight Glass audit and its limits.
 
 Audit date: 8 November 2026 (UTC). Tested the existing static website at `http://127.0.0.1:8015/portfolio/`, including the GitHub Pages subdirectory. Existing HTML, CSS, JavaScript, assets, content, and tests were inspected before changes. No framework, runtime library, build system, or form backend was added.
 
